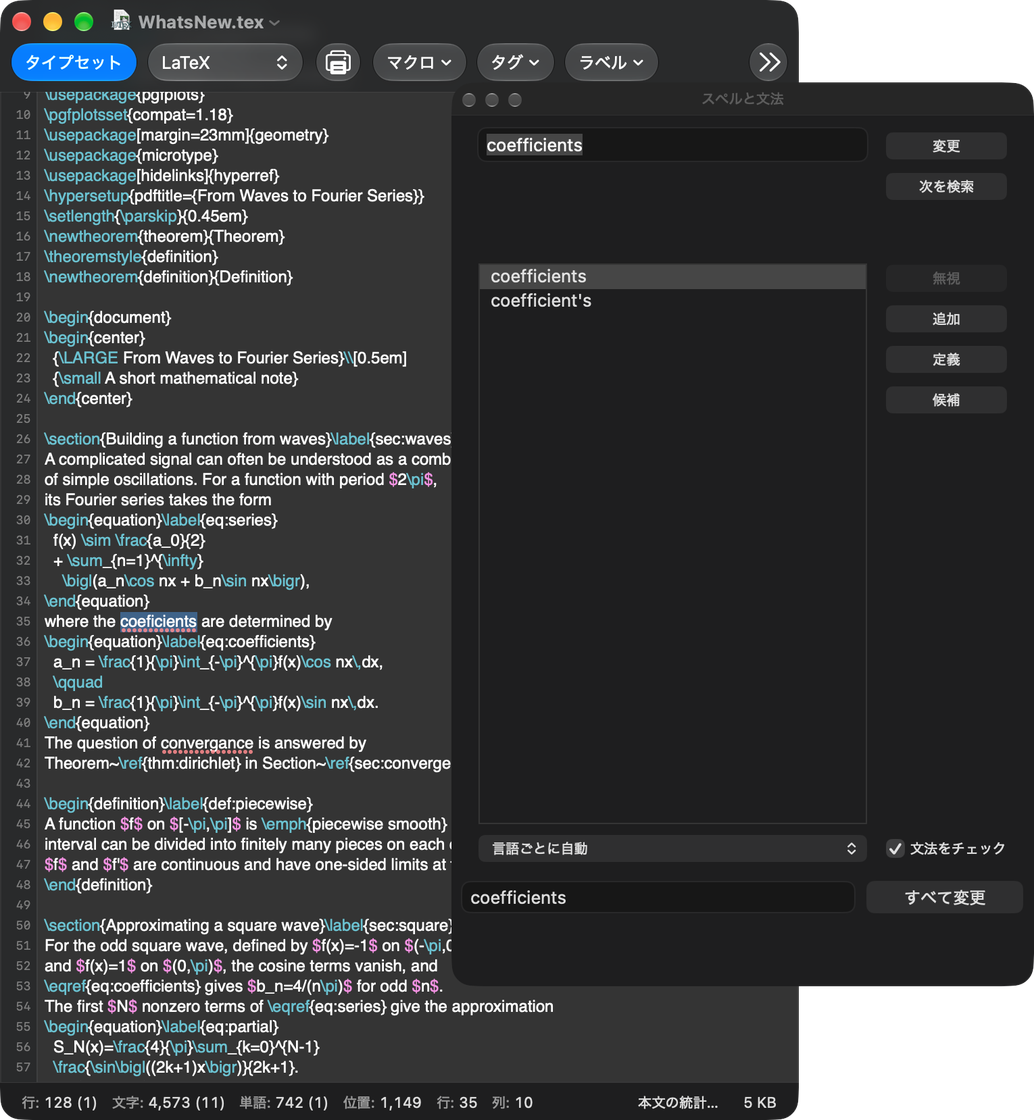
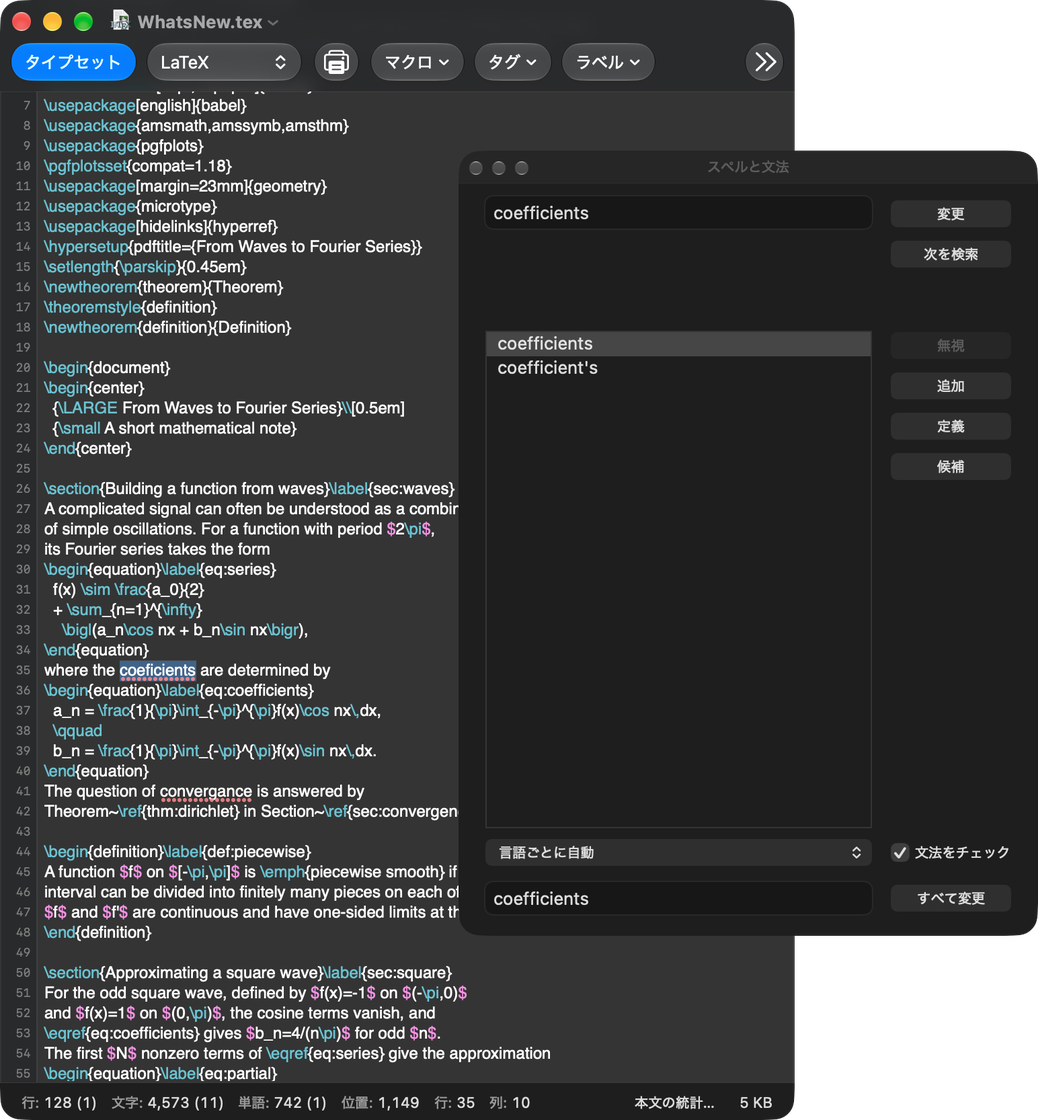
Retake the spell-checking pictures with the Change All row that follows the panel

diff --git a/website/whats-new-ja.html b/website/whats-new-ja.html
@@ -11,7 +11,7 @@
 <section class="feature-list" aria-label="主な変更">
 <article class="feature" id="settings"><div class="feature-text"><h2>新しく設計し直された設定画面</h2><p>サイドバーと検索欄を備えた、新しい設定画面になりました。</p></div><figure><img class="shot-light" src="assets/whats-new/ja/settings.png" width="600" height="450" alt="分類のサイドバーと「一般」を示す設定画面"><img loading="lazy" class="shot-dark" src="assets/whats-new/ja/settings-dark.png" width="600" height="450" alt="分類のサイドバーと「一般」を示す設定画面"></figure></article>
 <article class="feature" id="shortcuts"><div class="feature-text"><h2>あらゆるキーバインドをカスタマイズ</h2><p>メニューとマクロのショートカット、キーバインドを自由にカスタマイズできます。</p></div><figure><img class="shot-light" src="assets/whats-new/ja/menu-shortcuts.png" width="600" height="450" alt="「タイプセット」で探したメニューのショートカットの一覧" loading="lazy"><img class="shot-dark" src="assets/whats-new/ja/menu-shortcuts-dark.png" width="600" height="450" alt="「タイプセット」で探したメニューのショートカットの一覧" loading="lazy"><figcaption>メニューのショートカット</figcaption></figure><figure><img class="shot-light" src="assets/whats-new/ja/key-bindings.png" width="600" height="450" alt="選択中の文字列や出力後のカーソル位置を入れたキーバインドの一覧" loading="lazy"><img class="shot-dark" src="assets/whats-new/ja/key-bindings-dark.png" width="600" height="450" alt="選択中の文字列や出力後のカーソル位置を入れたキーバインドの一覧" loading="lazy"><figcaption>キーバインド</figcaption></figure><figure><img class="shot-light" src="assets/release-notes/ja/macro-editor.png" width="585" height="452" alt="マクロの一覧をサイドバーに置き、プレースホルダを札で示すTeXのマクロと、Commandなしのショートカットを示すマクロエディタ" loading="lazy"><img class="shot-dark" src="assets/release-notes/ja/macro-editor-dark.png" width="585" height="452" alt="マクロの一覧をサイドバーに置き、プレースホルダを札で示すTeXのマクロと、Commandなしのショートカットを示すマクロエディタ" loading="lazy"><figcaption>マクロエディタ</figcaption></figure></article>
-<article class="feature" id="spell-checking"><div class="feature-text"><h2>LaTeXの構文を考慮するスペルチェック</h2><p>TeXの命令や数式、コメントを飛ばして、本文だけをスペルチェックできます。</p></div><figure><img class="shot-light" src="assets/whats-new/ja/spell.png" width="600" height="530" alt="LaTeXのソースの本文で印の付いた2つの綴りの誤りと、「すべて変更」の欄に候補が入ったスペルのパネル" loading="lazy"><img class="shot-dark" src="assets/whats-new/ja/spell-dark.png" width="517" height="560" alt="LaTeXのソースの本文で印の付いた2つの綴りの誤りと、「すべて変更」の欄に候補が入ったスペルのパネル" loading="lazy"></figure></article>
+<article class="feature" id="spell-checking"><div class="feature-text"><h2>LaTeXの構文を考慮するスペルチェック</h2><p>TeXの命令や数式、コメントを飛ばして、本文だけをスペルチェックできます。</p></div><figure><img class="shot-light" src="assets/whats-new/ja/spell.png" width="519" height="560" alt="LaTeXのソースの本文で印の付いた2つの綴りの誤りと、「すべて変更」の欄に候補が入ったスペルのパネル" loading="lazy"><img class="shot-dark" src="assets/whats-new/ja/spell-dark.png" width="519" height="560" alt="LaTeXのソースの本文で印の付いた2つの綴りの誤りと、「すべて変更」の欄に候補が入ったスペルのパネル" loading="lazy"></figure></article>
 <article class="feature" id="find-panel"><div class="feature-text"><h2>新しい検索パネル</h2><p>正規表現を使える新しい検索パネルで、すべての一致を一覧にしたり、ハイライトしたりできます。</p></div><figure><img class="shot-light" src="assets/whats-new/ja/advanced-find.png" width="600" height="494" alt="正規表現を入れた新しい検索パネルと、すべての一致の一覧、ソースで強調された一致" loading="lazy"><img class="shot-dark" src="assets/whats-new/ja/advanced-find-dark.png" width="600" height="494" alt="正規表現を入れた新しい検索パネルと、すべての一致の一覧、ソースで強調された一致" loading="lazy"></figure></article>
 <article class="feature" id="multiple-replace"><div class="feature-text"><h2>複数置換</h2><p>検索と置換の組をいくつも登録して、まとめて置換できます。</p></div><figure><img class="shot-light" src="assets/release-notes/ja/multiple-replace.png" width="600" height="270" alt="検索と置換の組を4つ並べた複数置換の窓" loading="lazy"><img class="shot-dark" src="assets/release-notes/ja/multiple-replace-dark.png" width="600" height="269" alt="検索と置換の組を4つ並べた複数置換の窓" loading="lazy"></figure></article>
 <article class="feature" id="status-bar"><div class="feature-text"><h2>ステータスバーを新設</h2><p>ソースの下に行数・文字数・単語数を常時表示できます。TeXの命令を除く本文の文字数も数えられます。</p></div><figure><img class="shot-light" src="assets/whats-new/ja/status-bar.png" width="689" height="886" alt="ステータスバーと、ソースと本文の数を並べた「本文の統計」のポップオーバーを示すソースウインドウ" loading="lazy"><img class="shot-dark" src="assets/whats-new/ja/status-bar-dark.png" width="689" height="886" alt="ステータスバーと、ソースと本文の数を並べた「本文の統計」のポップオーバーを示すソースウインドウ" loading="lazy"></figure></article>

diff --git a/website/release-notes-ja.html b/website/release-notes-ja.html
@@ -44,7 +44,7 @@
 </ul>
 <h3>LaTeXの構文を考慮するスペルチェック</h3>
 <ul>
-<li><a href="https://github.com/ralphrmartin">Ralph Martin</a>氏と<a href="https://github.com/herbs">Herb Schulz</a>氏の提案・報告と、<a href="https://github.com/TeXShopProject/TeXShop/pull/40">PR #40</a>などでの<a href="https://github.com/ralphrmartin">Ralph Martin</a>氏の提供により、TeXの命令やコメント、数式、文章でない引数を飛ばして、本文だけをスペルチェックできるようになりました。スペルチェックパネルと辞書の選択も使いやすくなりました（<a href="https://github.com/TeXShopProject/TeXShop/issues/32">#32</a>）。<figure class="note-shot"><img class="shot-light" src="assets/whats-new/ja/spell.png" width="600" height="530" alt="LaTeXのソースの本文で印の付いた2つの綴りの誤りと、「すべて変更」の欄に候補が入ったスペルのパネル" loading="lazy"><img class="shot-dark" src="assets/whats-new/ja/spell-dark.png" width="517" height="560" alt="LaTeXのソースの本文で印の付いた2つの綴りの誤りと、「すべて変更」の欄に候補が入ったスペルのパネル" loading="lazy"></figure></li>
+<li><a href="https://github.com/ralphrmartin">Ralph Martin</a>氏と<a href="https://github.com/herbs">Herb Schulz</a>氏の提案・報告と、<a href="https://github.com/TeXShopProject/TeXShop/pull/40">PR #40</a>などでの<a href="https://github.com/ralphrmartin">Ralph Martin</a>氏の提供により、TeXの命令やコメント、数式、文章でない引数を飛ばして、本文だけをスペルチェックできるようになりました。スペルチェックパネルと辞書の選択も使いやすくなりました（<a href="https://github.com/TeXShopProject/TeXShop/issues/32">#32</a>）。<figure class="note-shot"><img class="shot-light" src="assets/whats-new/ja/spell.png" width="519" height="560" alt="LaTeXのソースの本文で印の付いた2つの綴りの誤りと、「すべて変更」の欄に候補が入ったスペルのパネル" loading="lazy"><img class="shot-dark" src="assets/whats-new/ja/spell-dark.png" width="519" height="560" alt="LaTeXのソースの本文で印の付いた2つの綴りの誤りと、「すべて変更」の欄に候補が入ったスペルのパネル" loading="lazy"></figure></li>
 </ul>
 <h3>プレビュー</h3>
 <ul>
